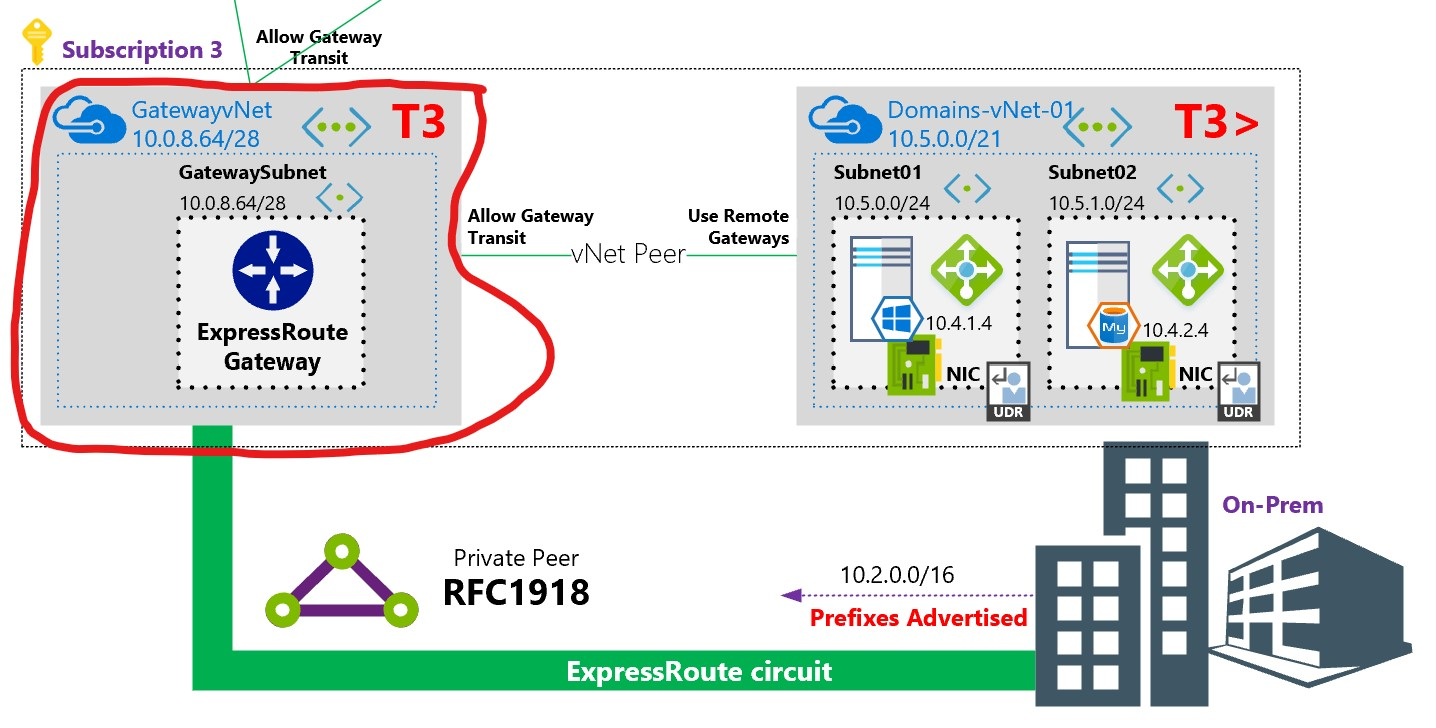
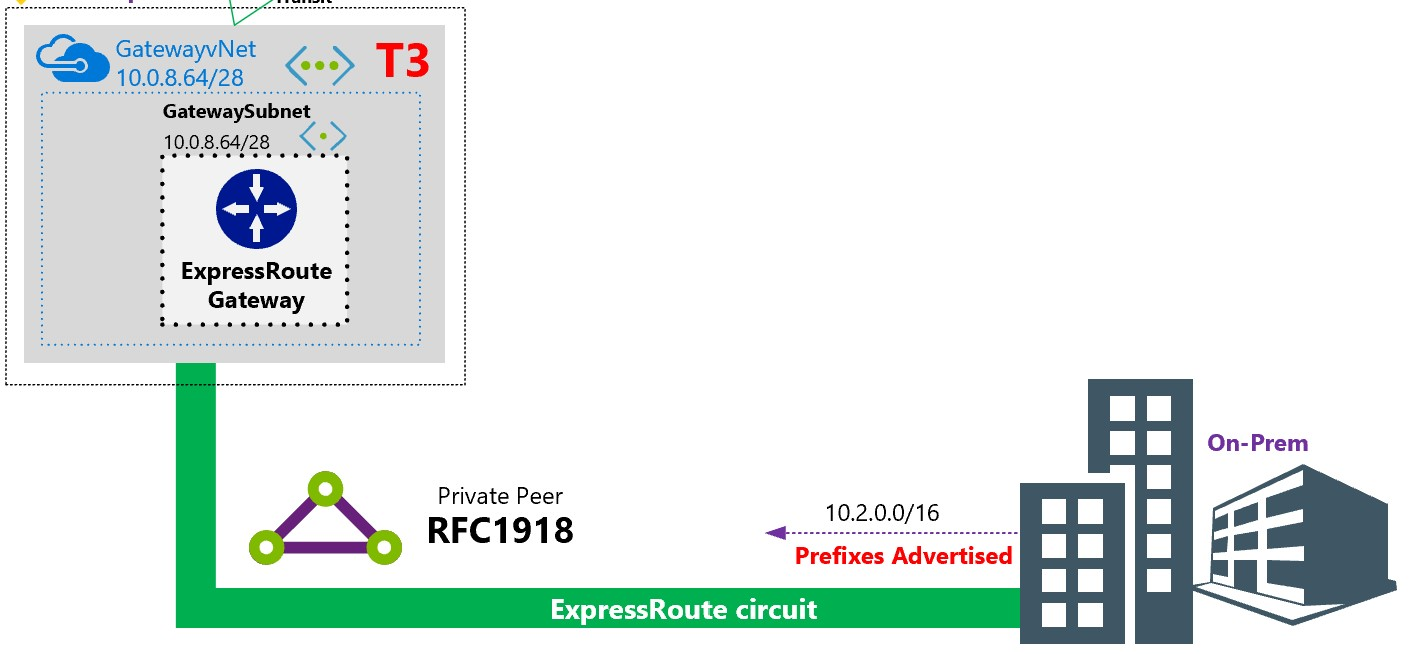
.

Changed region(s): [[0.0, 0.0, 0.9972, 1.0]]

diff --git a/README.md b/README.md
@@ -6,6 +6,10 @@ For the serious security concious, this is one way to do networks from within Az
 ## Azure-T3-Network
 This repo is for the Tier 3 part of the 3 tier network.
 
+<p align="center">
+  <img src="AzureNetworkT3.jpg">
+</p>
+
 ![AzureNetworkT2.jpg](AzureNetworkT2.jpg)
 
 To deploy the most trusted T3 bottom layer of this Azure network:
